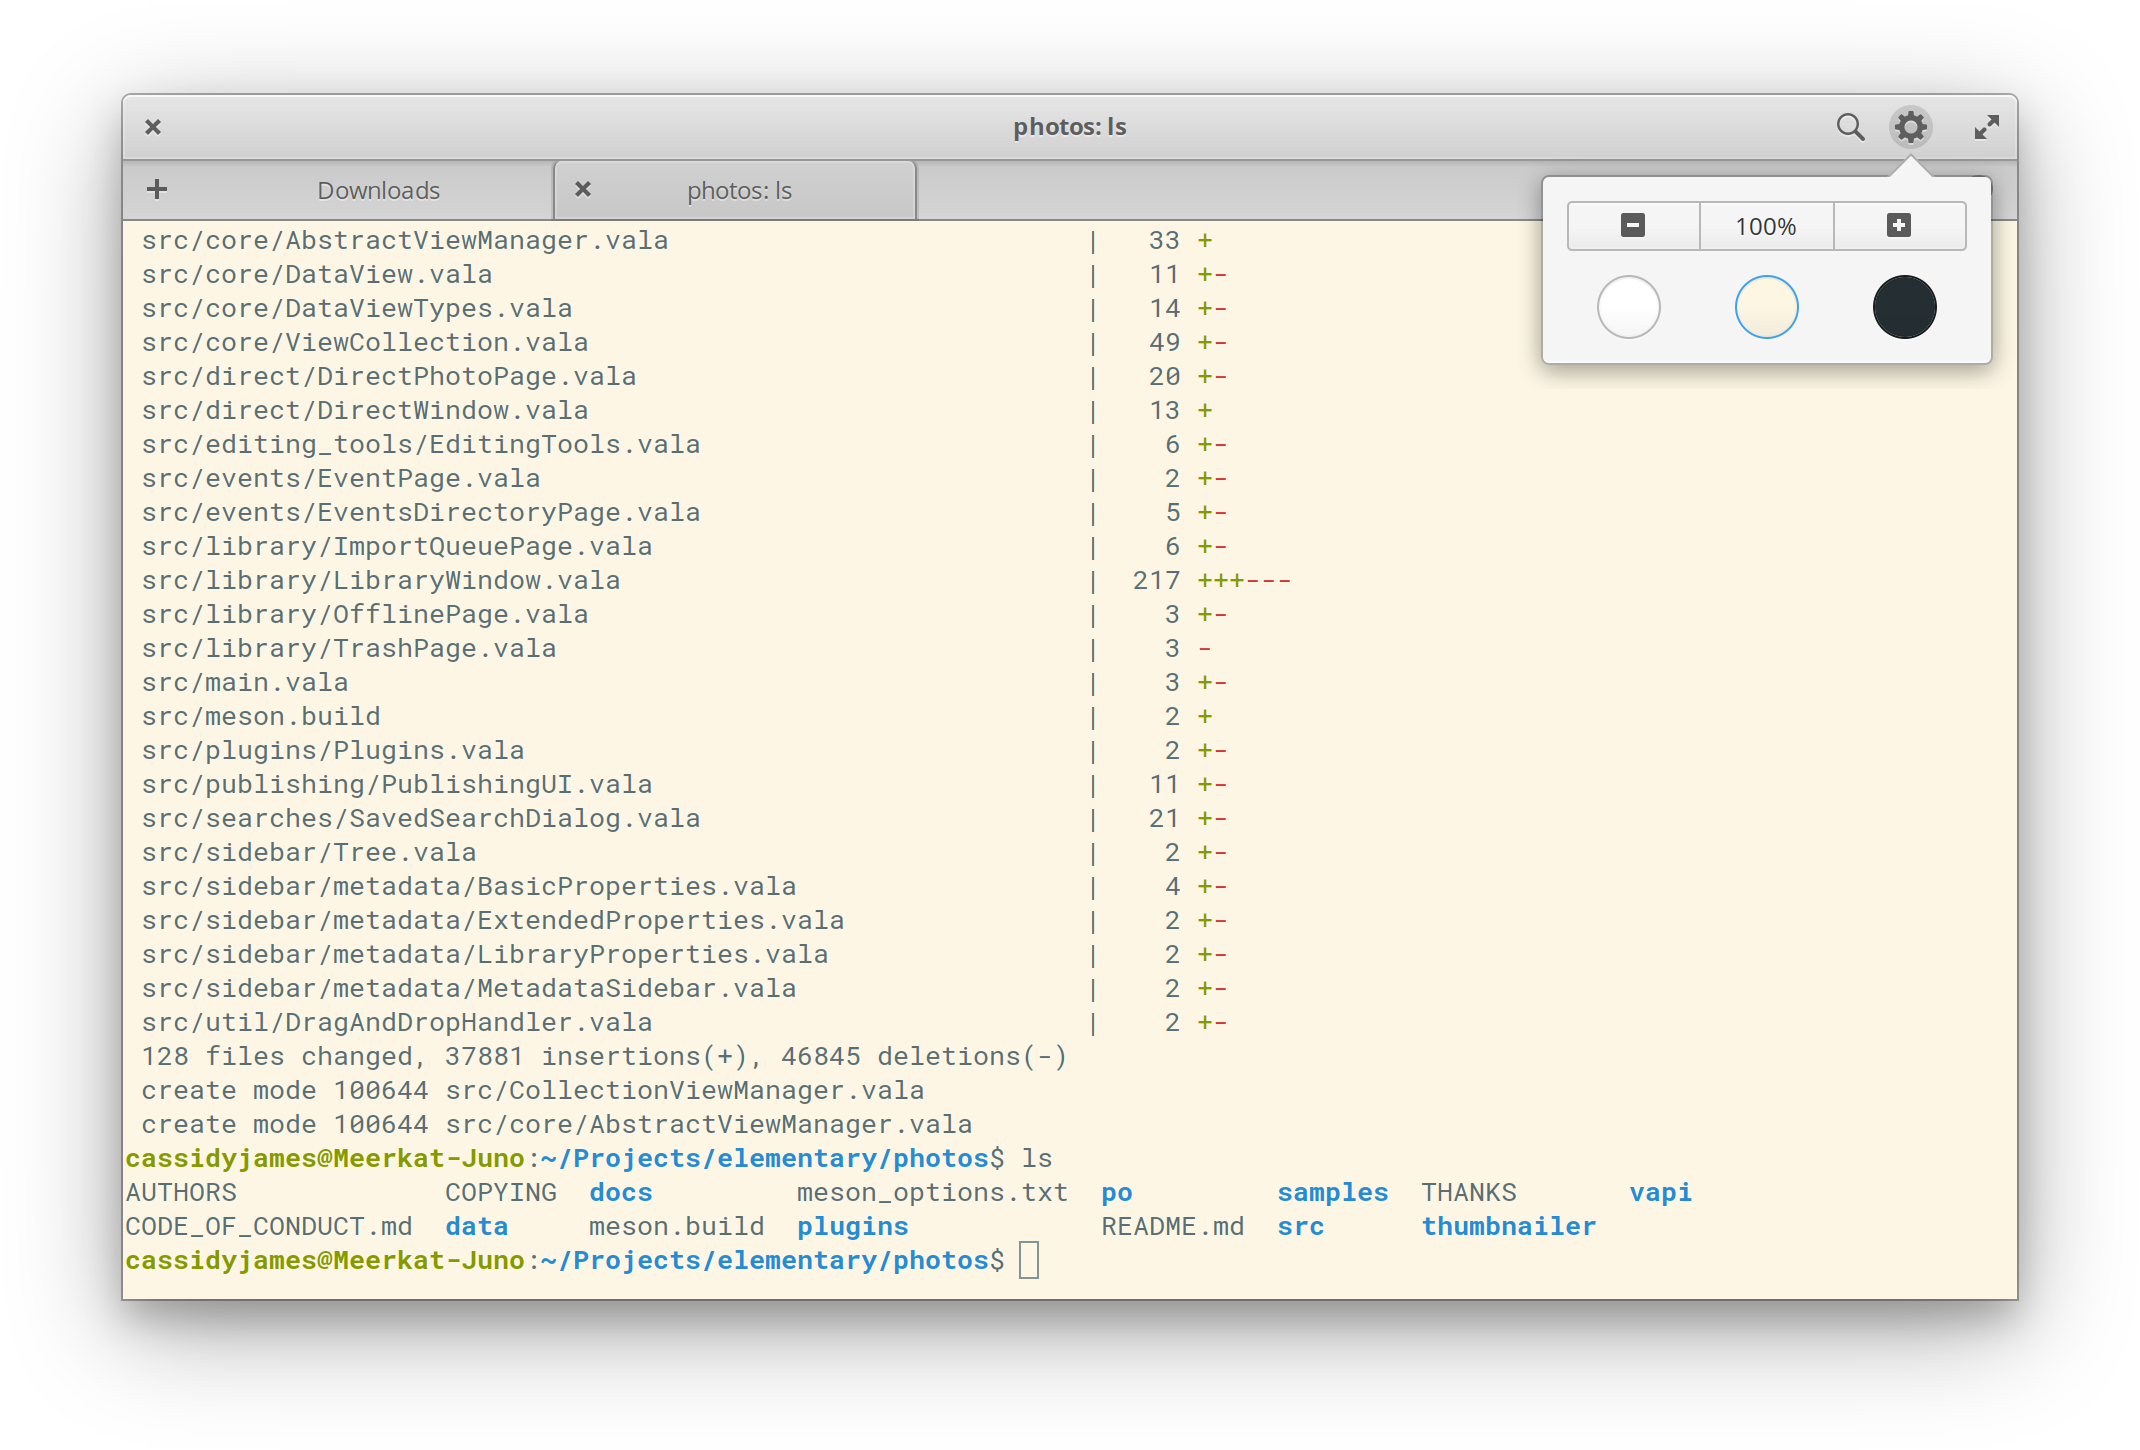
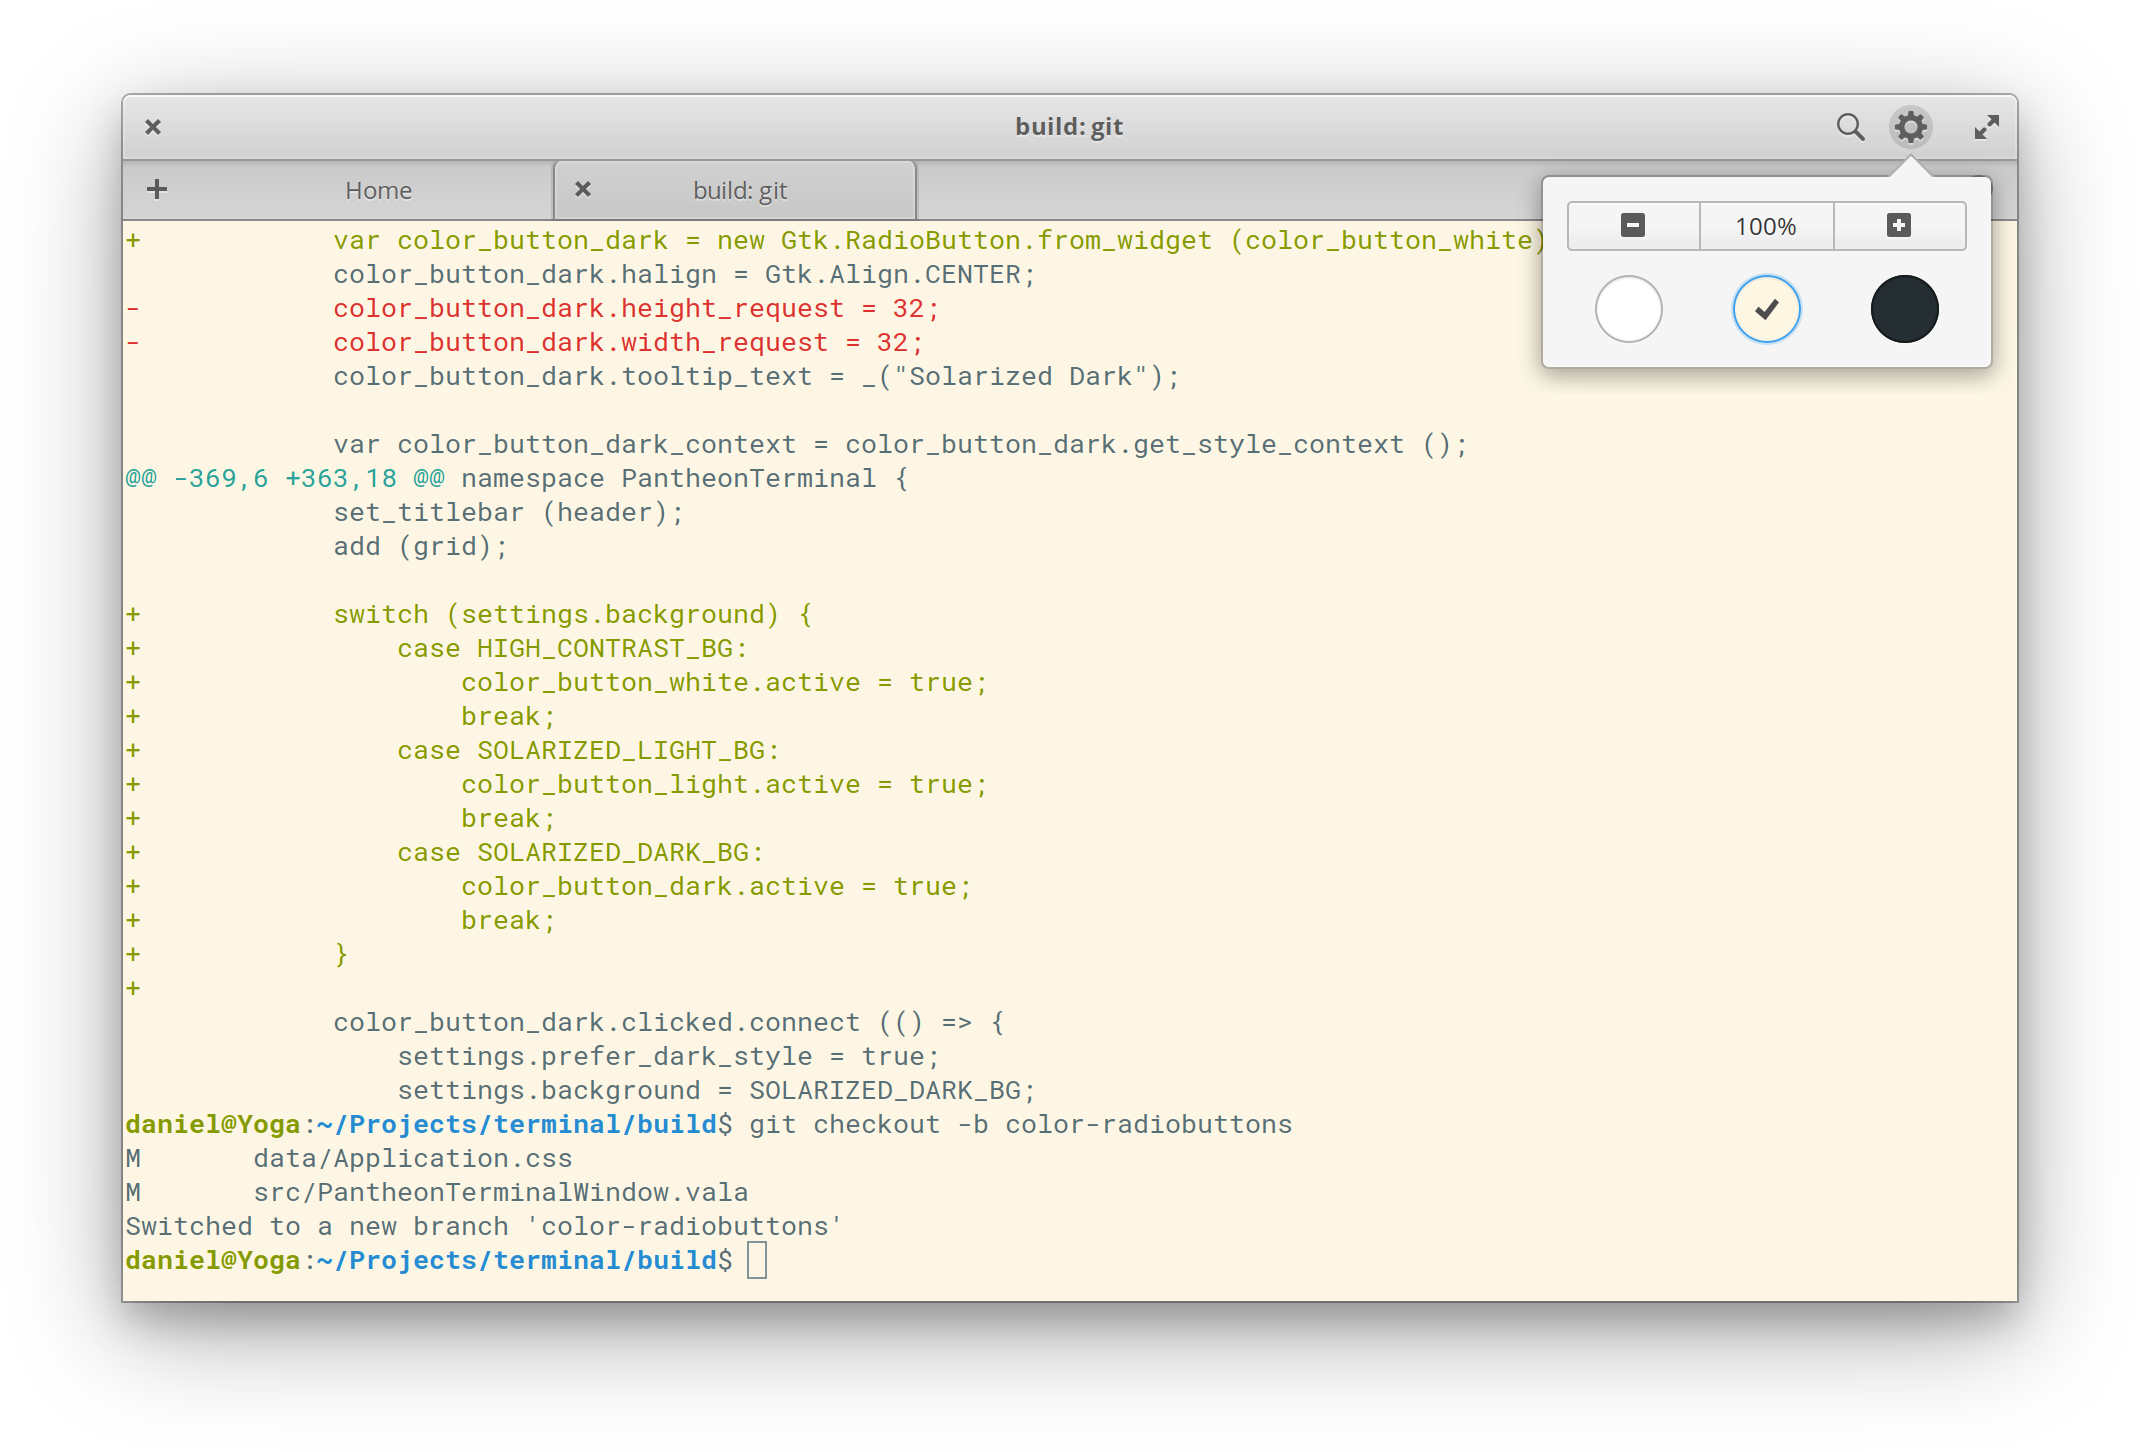
Use RadioButtons for style switcher

diff --git a/data/Application.css b/data/Application.css
@@ -25,27 +25,39 @@
     background-color: #000;
 }
 
-.color-button {
-    border-radius: 50%;
+.color-button radio,
+.color-button radio:checked {
+    border-color: alpha (#000, 0.3);
     box-shadow:
         inset 0 1px 0 0 alpha (@inset_dark_color, 0.7),
         inset 0 0 0 1px alpha (@inset_dark_color, 0.3),
         0 1px 0 0 alpha (@bg_highlight_color, 0.3);
+    padding: 10px;
+    -gtk-icon-shadow: none;
 }
 
-.color-button:focus {
+.color-button radio:focus {
     border-color: @colorAccent;
+    box-shadow:
+        inset 0 1px 0 0 alpha (@inset_dark_color, 0.7),
+        inset 0 0 0 1px alpha (@inset_dark_color, 0.3),
+        inset 0 0 0 1px alpha (@bg_highlight_color, 0.05),
+        0 1px 0 0 alpha (@bg_highlight_color, 0.3),
+        0 0 0 1px alpha (@colorAccent, 0.25);
 }
 
-.color-dark {
-    background-color: #252E32;
+.color-dark radio {
+    background: #252E32;
     border-color: #151B1C;
+    color: #fff;
 }
 
-.color-light {
-    background-color: #fdf6e3;
+.color-light radio {
+    background: #fdf6e3;
+    color: #4d4d4d;
 }
 
-.color-white {
-    background-color: #fff;
+.color-white radio {
+    background: #fff;
+    color: #000;
 }
